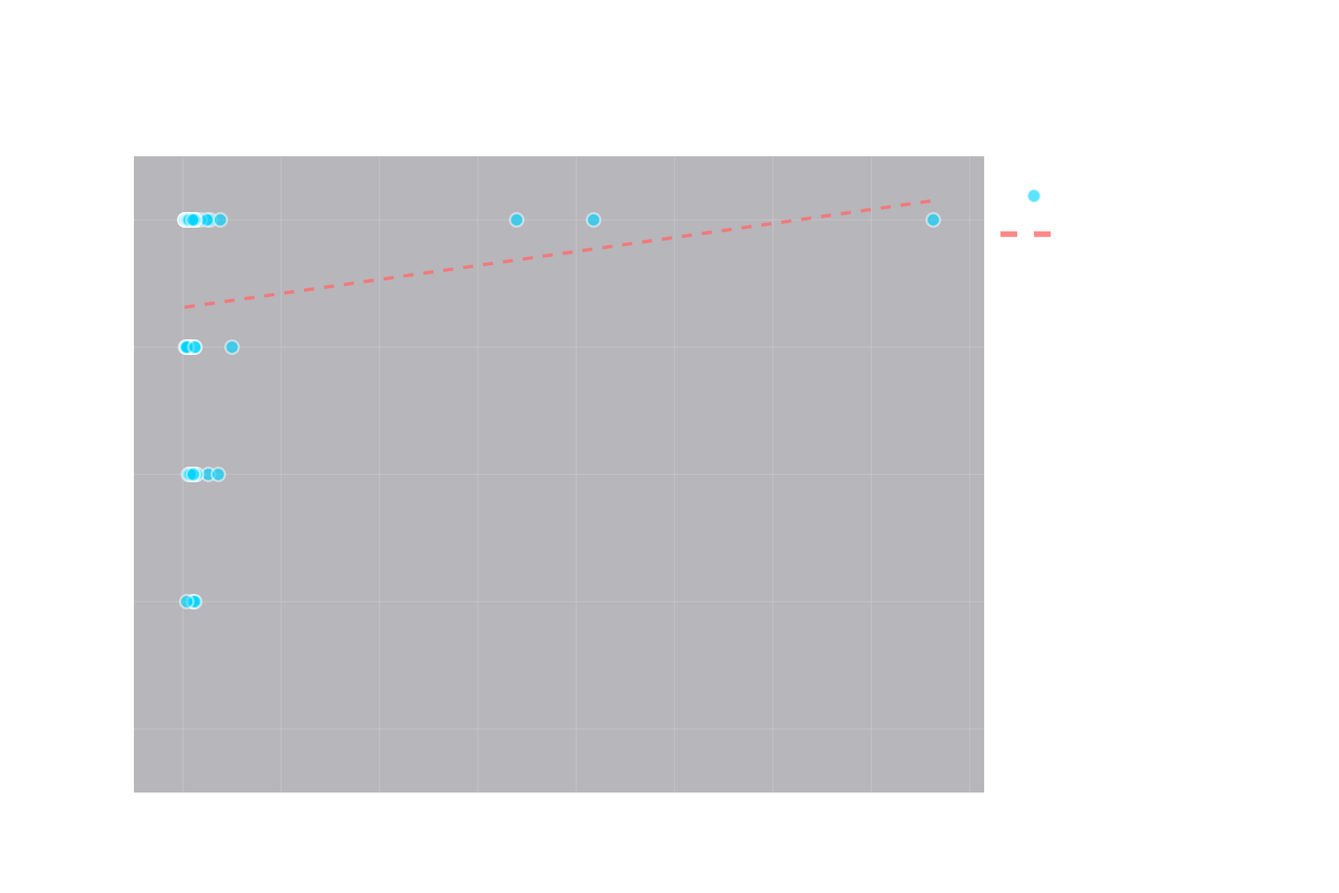
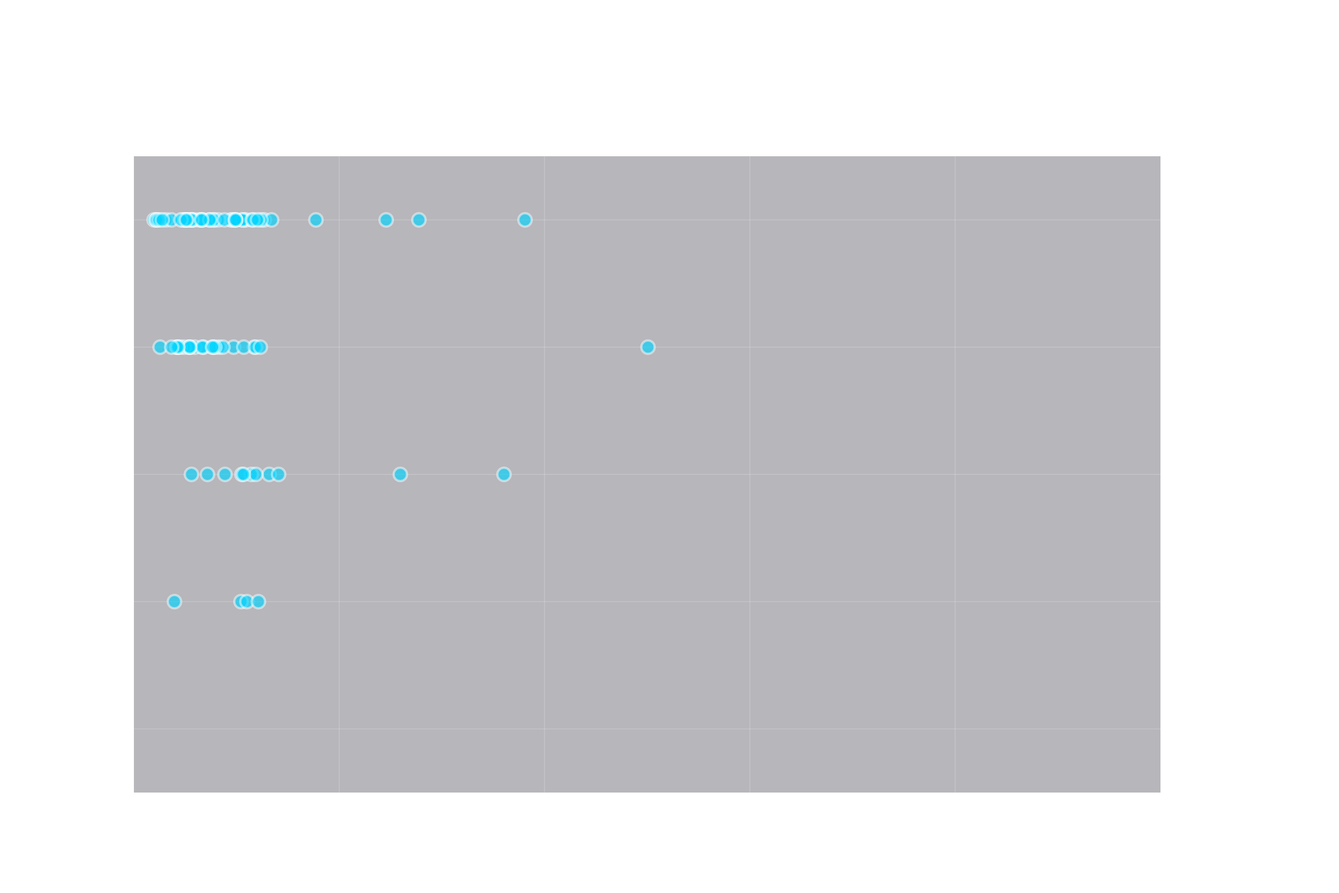
fix: clear chart title and enhance distance comparison chart functionality
- Cleared the chart title text content in index.html for improved clarity.
- Added filtering for trips under 10 km in viz_distance_comparison.py, with an annotation for no available trips.
- Updated scatter plot data to reflect filtered results and removed the trend line as per request.
- Adjusted x-axis range in the distance comparison chart layout to limit to 10 km.

diff --git a/outputs/distance_comparison.html b/outputs/distance_comparison.html
@@ -35,7 +35,7 @@
     <div id="plotly-div"></div>
     
     <script>
-        var figureJSON = {"data":[{"hovertemplate":"\u003cb\u003eStudent Response\u003c\u002fb\u003e\u003cbr\u003eActual Distance: %{x:.2f} km\u003cbr\u003ePerceived Importance: %{y:.1f}\u002f5\u003cbr\u003eID: %{text}\u003cextra\u003e\u003c\u002fextra\u003e","marker":{"color":"rgba(0, 212, 255, 0.8)","line":{"color":"rgba(255, 255, 255, 0.6)","width":2},"opacity":0.8,"size":12},"mode":"markers","name":"Individual Responses","text":["836154","841106","841110","841111","841116","841118","841121","841125","841130","841134","841146","841153","853074","853078","853099","853159","853312","853355","853372","853411","853415","853444","853566","853621","853838","854340","856300","856343","856634","859290","859317","859831","859968","860040","860047","860238","860303","860362","863556","863862","863887","864950","865454","866939","869858","869956","869961","870232","870233","870235","870237","870242","870258","871978","878413","878457","887967","888010","888014","888022","888134","888466","898103","898106","898157","898199","898297","899225","899295","899867","899962","905091","916366","916374","916375","916390","916391","916403","916414","916415","916742","916897","917594","919603","919616","919635","919680","919758"],"x":[0.19660873441922383,1.318258982143453,0.5928184659626314,2.595604811981056,0.9444493888160007,1.1432300889703149,0.5376580062481178,0.7355039435015297,0.9713790470309572,0.3142999839166886,1.0432226121425974,1.1725907192015907,2.7764165772576574,1.1873631823187347,0.5609573118072229,1.2692407698339223,1.4096988273158213,0.6713026149196973,0.9615677947362072,0.6783441770927978,0.4172598992829516,0.49125191139904617,0.5847901439897417,0.22041946022991307,1.0707188461820678,0.25575860383060867,0.8290277563918342,1.0919474273689347,1.0514044037663837,0.45176890031072353,0.5310667293215617,0.562397391845399,0.7675279644773724,1.0649892085902963,1.054978671716156,0.5472517695827953,0.5094304037025462,0.8677178382518711,0.2201847530594614,0.6655939626536871,0.6353058241173803,0.9900909380442863,0.47890468756403437,0.7884289900666915,3.8101074083182898,0.5568320326288102,0.7671737594660228,1.7731473773808906,41.76259420526531,0.36669249175373836,1.1854744939451525,0.7800267490196165,0.5426973978213154,0.5010294735352354,0.24577996774035532,0.27641748743447636,0.65924324841804,0.8232653179917975,1.3413056276534907,0.8875303927226957,0.7168157180966449,0.7768459700577828,0.565127296751956,1.067401091688775,0.5030319551127922,1.2386036475157,0.7390833030089606,3.605325513653241,1.101397946042092,1.2129921724184833,1.1524695021151214,5.007816295772267,0.8824207647645214,2.457400326841246,0.4586274310128669,76.30143862503265,0.9858525505787079,0.5122319165143194,0.6604295272924998,1.1612952715241625,33.942075629478374,0.39516380029957476,1.2039420575352362,0.992541660692622,0.4218261759869098,0.42917351471444803,0.3685729969990784,1.2316791346702303],"y":[5.0,3.0,4.0,3.0,5.0,3.0,4.0,5.0,4.0,5.0,2.0,4.0,5.0,3.0,3.0,5.0,3.0,5.0,5.0,4.0,4.0,4.0,5.0,5.0,4.0,4.0,4.0,5.0,3.0,4.0,5.0,5.0,4.0,5.0,5.0,4.0,5.0,4.0,5.0,4.0,5.0,5.0,5.0,4.0,5.0,5.0,4.0,5.0,5.0,5.0,4.0,5.0,4.0,5.0,5.0,5.0,5.0,5.0,5.0,3.0,3.0,5.0,5.0,3.0,5.0,5.0,5.0,3.0,2.0,2.0,5.0,4.0,5.0,5.0,5.0,5.0,5.0,5.0,5.0,5.0,5.0,2.0,5.0,5.0,4.0,4.0,4.0,4.0],"type":"scatter"},{"hovertemplate":"\u003cb\u003eTrend Line\u003c\u002fb\u003e\u003cbr\u003eCorrelation: %{text}\u003cextra\u003e\u003c\u002fextra\u003e","line":{"color":"rgba(255, 107, 107, 0.8)","dash":"dash","width":3},"mode":"lines","name":"Trend Line (r=0.123)","text":["0.123","0.123","0.123","0.123","0.123","0.123","0.123","0.123","0.123","0.123","0.123","0.123","0.123","0.123","0.123","0.123","0.123","0.123","0.123","0.123","0.123","0.123","0.123","0.123","0.123","0.123","0.123","0.123","0.123","0.123","0.123","0.123","0.123","0.123","0.123","0.123","0.123","0.123","0.123","0.123","0.123","0.123","0.123","0.123","0.123","0.123","0.123","0.123","0.123","0.123"],"x":[0.19660873441922383,1.7497685281052118,3.3029283217912,4.8560881154771876,6.4092479091631755,7.9624077028491635,9.515567496535152,11.068727290221139,12.621887083907128,14.175046877593116,15.728206671279104,17.281366464965092,18.83452625865108,20.38768605233707,21.940845846023056,23.494005639709044,25.047165433395033,26.600325227081022,28.15348502076701,29.706644814452996,31.259804608138985,32.81296440182497,34.366124195510956,35.91928398919695,37.472443782882934,39.02560357656892,40.57876337025491,42.1319231639409,43.68508295762688,45.238242751312875,46.79140254499886,48.34456233868485,49.89772213237084,51.45088192605682,53.004041719742816,54.5572015134288,56.11036130711479,57.66352110080078,59.216680894486764,60.769840688172756,62.32300048185874,63.87616027554473,65.42932006923073,66.98247986291672,68.5356396566027,70.08879945028869,71.64195924397468,73.19511903766066,74.74827883134665,76.30143862503265],"y":[4.313855718061364,4.330950658782424,4.348045599503483,4.365140540224543,4.382235480945603,4.399330421666662,4.416425362387722,4.433520303108781,4.450615243829842,4.467710184550901,4.4848051252719605,4.50190006599302,4.51899500671408,4.53608994743514,4.553184888156199,4.570279828877259,4.587374769598319,4.604469710319378,4.621564651040438,4.638659591761497,4.6557545324825576,4.672849473203617,4.689944413924676,4.707039354645736,4.724134295366796,4.741229236087856,4.758324176808915,4.7754191175299745,4.792514058251035,4.809608998972094,4.826703939693154,4.843798880414213,4.860893821135273,4.877988761856333,4.895083702577392,4.912178643298452,4.929273584019512,4.9463685247405715,4.963463465461631,4.98055840618269,4.99765334690375,5.01474828762481,5.03184322834587,5.048938169066929,5.066033109787989,5.083128050509049,5.100222991230108,5.117317931951168,5.134412872672228,5.1515078133932874],"type":"scatter"}],"layout":{"template":{"data":{"histogram2dcontour":[{"type":"histogram2dcontour","colorbar":{"outlinewidth":0,"ticks":""},"colorscale":[[0.0,"#0d0887"],[0.1111111111111111,"#46039f"],[0.2222222222222222,"#7201a8"],[0.3333333333333333,"#9c179e"],[0.4444444444444444,"#bd3786"],[0.5555555555555556,"#d8576b"],[0.6666666666666666,"#ed7953"],[0.7777777777777778,"#fb9f3a"],[0.8888888888888888,"#fdca26"],[1.0,"#f0f921"]]}],"choropleth":[{"type":"choropleth","colorbar":{"outlinewidth":0,"ticks":""}}],"histogram2d":[{"type":"histogram2d","colorbar":{"outlinewidth":0,"ticks":""},"colorscale":[[0.0,"#0d0887"],[0.1111111111111111,"#46039f"],[0.2222222222222222,"#7201a8"],[0.3333333333333333,"#9c179e"],[0.4444444444444444,"#bd3786"],[0.5555555555555556,"#d8576b"],[0.6666666666666666,"#ed7953"],[0.7777777777777778,"#fb9f3a"],[0.8888888888888888,"#fdca26"],[1.0,"#f0f921"]]}],"heatmap":[{"type":"heatmap","colorbar":{"outlinewidth":0,"ticks":""},"colorscale":[[0.0,"#0d0887"],[0.1111111111111111,"#46039f"],[0.2222222222222222,"#7201a8"],[0.3333333333333333,"#9c179e"],[0.4444444444444444,"#bd3786"],[0.5555555555555556,"#d8576b"],[0.6666666666666666,"#ed7953"],[0.7777777777777778,"#fb9f3a"],[0.8888888888888888,"#fdca26"],[1.0,"#f0f921"]]}],"heatmapgl":[{"type":"heatmapgl","colorbar":{"outlinewidth":0,"ticks":""},"colorscale":[[0.0,"#0d0887"],[0.1111111111111111,"#46039f"],[0.2222222222222222,"#7201a8"],[0.3333333333333333,"#9c179e"],[0.4444444444444444,"#bd3786"],[0.5555555555555556,"#d8576b"],[0.6666666666666666,"#ed7953"],[0.7777777777777778,"#fb9f3a"],[0.8888888888888888,"#fdca26"],[1.0,"#f0f921"]]}],"contourcarpet":[{"type":"contourcarpet","colorbar":{"outlinewidth":0,"ticks":""}}],"contour":[{"type":"contour","colorbar":{"outlinewidth":0,"ticks":""},"colorscale":[[0.0,"#0d0887"],[0.1111111111111111,"#46039f"],[0.2222222222222222,"#7201a8"],[0.3333333333333333,"#9c179e"],[0.4444444444444444,"#bd3786"],[0.5555555555555556,"#d8576b"],[0.6666666666666666,"#ed7953"],[0.7777777777777778,"#fb9f3a"],[0.8888888888888888,"#fdca26"],[1.0,"#f0f921"]]}],"surface":[{"type":"surface","colorbar":{"outlinewidth":0,"ticks":""},"colorscale":[[0.0,"#0d0887"],[0.1111111111111111,"#46039f"],[0.2222222222222222,"#7201a8"],[0.3333333333333333,"#9c179e"],[0.4444444444444444,"#bd3786"],[0.5555555555555556,"#d8576b"],[0.6666666666666666,"#ed7953"],[0.7777777777777778,"#fb9f3a"],[0.8888888888888888,"#fdca26"],[1.0,"#f0f921"]]}],"mesh3d":[{"type":"mesh3d","colorbar":{"outlinewidth":0,"ticks":""}}],"scatter":[{"fillpattern":{"fillmode":"overlay","size":10,"solidity":0.2},"type":"scatter"}],"parcoords":[{"type":"parcoords","line":{"colorbar":{"outlinewidth":0,"ticks":""}}}],"scatterpolargl":[{"type":"scatterpolargl","marker":{"colorbar":{"outlinewidth":0,"ticks":""}}}],"bar":[{"error_x":{"color":"#2a3f5f"},"error_y":{"color":"#2a3f5f"},"marker":{"line":{"color":"#E5ECF6","width":0.5},"pattern":{"fillmode":"overlay","size":10,"solidity":0.2}},"type":"bar"}],"scattergeo":[{"type":"scattergeo","marker":{"colorbar":{"outlinewidth":0,"ticks":""}}}],"scatterpolar":[{"type":"scatterpolar","marker":{"colorbar":{"outlinewidth":0,"ticks":""}}}],"histogram":[{"marker":{"pattern":{"fillmode":"overlay","size":10,"solidity":0.2}},"type":"histogram"}],"scattergl":[{"type":"scattergl","marker":{"colorbar":{"outlinewidth":0,"ticks":""}}}],"scatter3d":[{"type":"scatter3d","line":{"colorbar":{"outlinewidth":0,"ticks":""}},"marker":{"colorbar":{"outlinewidth":0,"ticks":""}}}],"scattermapbox":[{"type":"scattermapbox","marker":{"colorbar":{"outlinewidth":0,"ticks":""}}}],"scatterternary":[{"type":"scatterternary","marker":{"colorbar":{"outlinewidth":0,"ticks":""}}}],"scattercarpet":[{"type":"scattercarpet","marker":{"colorbar":{"outlinewidth":0,"ticks":""}}}],"carpet":[{"aaxis":{"endlinecolor":"#2a3f5f","gridcolor":"white","linecolor":"white","minorgridcolor":"white","startlinecolor":"#2a3f5f"},"baxis":{"endlinecolor":"#2a3f5f","gridcolor":"white","linecolor":"white","minorgridcolor":"white","startlinecolor":"#2a3f5f"},"type":"carpet"}],"table":[{"cells":{"fill":{"color":"#EBF0F8"},"line":{"color":"white"}},"header":{"fill":{"color":"#C8D4E3"},"line":{"color":"white"}},"type":"table"}],"barpolar":[{"marker":{"line":{"color":"#E5ECF6","width":0.5},"pattern":{"fillmode":"overlay","size":10,"solidity":0.2}},"type":"barpolar"}],"pie":[{"automargin":true,"type":"pie"}]},"layout":{"autotypenumbers":"strict","colorway":["#636efa","#EF553B","#00cc96","#ab63fa","#FFA15A","#19d3f3","#FF6692","#B6E880","#FF97FF","#FECB52"],"font":{"color":"#2a3f5f"},"hovermode":"closest","hoverlabel":{"align":"left"},"paper_bgcolor":"white","plot_bgcolor":"#E5ECF6","polar":{"bgcolor":"#E5ECF6","angularaxis":{"gridcolor":"white","linecolor":"white","ticks":""},"radialaxis":{"gridcolor":"white","linecolor":"white","ticks":""}},"ternary":{"bgcolor":"#E5ECF6","aaxis":{"gridcolor":"white","linecolor":"white","ticks":""},"baxis":{"gridcolor":"white","linecolor":"white","ticks":""},"caxis":{"gridcolor":"white","linecolor":"white","ticks":""}},"coloraxis":{"colorbar":{"outlinewidth":0,"ticks":""}},"colorscale":{"sequential":[[0.0,"#0d0887"],[0.1111111111111111,"#46039f"],[0.2222222222222222,"#7201a8"],[0.3333333333333333,"#9c179e"],[0.4444444444444444,"#bd3786"],[0.5555555555555556,"#d8576b"],[0.6666666666666666,"#ed7953"],[0.7777777777777778,"#fb9f3a"],[0.8888888888888888,"#fdca26"],[1.0,"#f0f921"]],"sequentialminus":[[0.0,"#0d0887"],[0.1111111111111111,"#46039f"],[0.2222222222222222,"#7201a8"],[0.3333333333333333,"#9c179e"],[0.4444444444444444,"#bd3786"],[0.5555555555555556,"#d8576b"],[0.6666666666666666,"#ed7953"],[0.7777777777777778,"#fb9f3a"],[0.8888888888888888,"#fdca26"],[1.0,"#f0f921"]],"diverging":[[0,"#8e0152"],[0.1,"#c51b7d"],[0.2,"#de77ae"],[0.3,"#f1b6da"],[0.4,"#fde0ef"],[0.5,"#f7f7f7"],[0.6,"#e6f5d0"],[0.7,"#b8e186"],[0.8,"#7fbc41"],[0.9,"#4d9221"],[1,"#276419"]]},"xaxis":{"gridcolor":"white","linecolor":"white","ticks":"","title":{"standoff":15},"zerolinecolor":"white","automargin":true,"zerolinewidth":2},"yaxis":{"gridcolor":"white","linecolor":"white","ticks":"","title":{"standoff":15},"zerolinecolor":"white","automargin":true,"zerolinewidth":2},"scene":{"xaxis":{"backgroundcolor":"#E5ECF6","gridcolor":"white","linecolor":"white","showbackground":true,"ticks":"","zerolinecolor":"white","gridwidth":2},"yaxis":{"backgroundcolor":"#E5ECF6","gridcolor":"white","linecolor":"white","showbackground":true,"ticks":"","zerolinecolor":"white","gridwidth":2},"zaxis":{"backgroundcolor":"#E5ECF6","gridcolor":"white","linecolor":"white","showbackground":true,"ticks":"","zerolinecolor":"white","gridwidth":2}},"shapedefaults":{"line":{"color":"#2a3f5f"}},"annotationdefaults":{"arrowcolor":"#2a3f5f","arrowhead":0,"arrowwidth":1},"geo":{"bgcolor":"white","landcolor":"#E5ECF6","subunitcolor":"white","showland":true,"showlakes":true,"lakecolor":"white"},"title":{"x":0.05},"mapbox":{"style":"light"}}},"title":{"font":{"size":32,"color":"white","family":"Inter, system-ui, sans-serif"},"pad":{"b":30},"text":"Distance: Perception vs Reality","x":0.5,"xanchor":"center"},"xaxis":{"title":{"text":"Actual Trip Distance (km)","font":{"size":18,"color":"white","family":"Inter, system-ui, sans-serif"}},"tickfont":{"size":14,"color":"rgba(255,255,255,0.95)","family":"Inter"},"gridcolor":"rgba(255,255,255,0.15)","showgrid":true,"zeroline":false,"showline":true,"linecolor":"rgba(255,255,255,0.4)","linewidth":2},"yaxis":{"title":{"text":"Perceived Distance Importance (1-5 scale)","font":{"size":18,"color":"white","family":"Inter, system-ui, sans-serif"}},"tickfont":{"size":14,"color":"rgba(255,255,255,0.95)","family":"Inter"},"gridcolor":"rgba(255,255,255,0.15)","showgrid":true,"zeroline":false,"showline":true,"linecolor":"rgba(255,255,255,0.4)","linewidth":2,"range":[0.5,5.5]},"font":{"color":"white","size":14,"family":"Inter, system-ui, sans-serif"},"margin":{"l":120,"r":160,"t":140,"b":90},"legend":{"font":{"size":24,"color":"white","family":"Inter, system-ui, sans-serif"},"orientation":"v","yanchor":"top","y":0.98,"xanchor":"left","x":1.01,"bgcolor":"rgba(255,255,255,0.1)","bordercolor":"rgba(255,255,255,0.3)","borderwidth":2,"itemsizing":"constant","itemwidth":60,"tracegroupgap":15},"hoverlabel":{"font":{"size":14,"family":"Inter, system-ui, sans-serif"},"bgcolor":"rgba(15,15,15,0.98)","bordercolor":"rgba(255,255,255,0.4)"},"paper_bgcolor":"rgba(0,0,0,0)","plot_bgcolor":"rgba(15,15,30,0.3)","autosize":true,"hovermode":"closest"}};
+        var figureJSON = {"data":[{"hovertemplate":"\u003cb\u003eStudent Response\u003c\u002fb\u003e\u003cbr\u003eActual Distance: %{x:.2f} km\u003cbr\u003ePerceived Importance: %{y:.1f}\u002f5\u003cbr\u003eID: %{text}\u003cextra\u003e\u003c\u002fextra\u003e","marker":{"color":"rgba(0, 212, 255, 0.8)","line":{"color":"rgba(255, 255, 255, 0.6)","width":2},"opacity":0.8,"size":12},"mode":"markers","name":"Individual Responses","text":["836154","841106","841110","841111","841116","841118","841121","841125","841130","841134","841146","841153","853074","853078","853099","853159","853312","853355","853372","853411","853415","853444","853566","853621","853838","854340","856300","856343","856634","859290","859317","859831","859968","860040","860047","860238","860303","860362","863556","863862","863887","864950","865454","866939","869858","869956","869961","870232","870235","870237","870242","870258","871978","878413","878457","887967","888010","888014","888022","888134","888466","898103","898106","898157","898199","898297","899225","899295","899867","899962","905091","916366","916374","916375","916391","916403","916414","916415","916897","917594","919603","919616","919635","919680","919758"],"x":[0.19660873441922383,1.318258982143453,0.5928184659626314,2.595604811981056,0.9444493888160007,1.1432300889703149,0.5376580062481178,0.7355039435015297,0.9713790470309572,0.3142999839166886,1.0432226121425974,1.1725907192015907,2.7764165772576574,1.1873631823187347,0.5609573118072229,1.2692407698339223,1.4096988273158213,0.6713026149196973,0.9615677947362072,0.6783441770927978,0.4172598992829516,0.49125191139904617,0.5847901439897417,0.22041946022991307,1.0707188461820678,0.25575860383060867,0.8290277563918342,1.0919474273689347,1.0514044037663837,0.45176890031072353,0.5310667293215617,0.562397391845399,0.7675279644773724,1.0649892085902963,1.054978671716156,0.5472517695827953,0.5094304037025462,0.8677178382518711,0.2201847530594614,0.6655939626536871,0.6353058241173803,0.9900909380442863,0.47890468756403437,0.7884289900666915,3.8101074083182898,0.5568320326288102,0.7671737594660228,1.7731473773808906,0.36669249175373836,1.1854744939451525,0.7800267490196165,0.5426973978213154,0.5010294735352354,0.24577996774035532,0.27641748743447636,0.65924324841804,0.8232653179917975,1.3413056276534907,0.8875303927226957,0.7168157180966449,0.7768459700577828,0.565127296751956,1.067401091688775,0.5030319551127922,1.2386036475157,0.7390833030089606,3.605325513653241,1.101397946042092,1.2129921724184833,1.1524695021151214,5.007816295772267,0.8824207647645214,2.457400326841246,0.4586274310128669,0.9858525505787079,0.5122319165143194,0.6604295272924998,1.1612952715241625,0.39516380029957476,1.2039420575352362,0.992541660692622,0.4218261759869098,0.42917351471444803,0.3685729969990784,1.2316791346702303],"y":[5.0,3.0,4.0,3.0,5.0,3.0,4.0,5.0,4.0,5.0,2.0,4.0,5.0,3.0,3.0,5.0,3.0,5.0,5.0,4.0,4.0,4.0,5.0,5.0,4.0,4.0,4.0,5.0,3.0,4.0,5.0,5.0,4.0,5.0,5.0,4.0,5.0,4.0,5.0,4.0,5.0,5.0,5.0,4.0,5.0,5.0,4.0,5.0,5.0,4.0,5.0,4.0,5.0,5.0,5.0,5.0,5.0,5.0,3.0,3.0,5.0,5.0,3.0,5.0,5.0,5.0,3.0,2.0,2.0,5.0,4.0,5.0,5.0,5.0,5.0,5.0,5.0,5.0,2.0,5.0,5.0,4.0,4.0,4.0,4.0],"type":"scatter"}],"layout":{"template":{"data":{"histogram2dcontour":[{"type":"histogram2dcontour","colorbar":{"outlinewidth":0,"ticks":""},"colorscale":[[0.0,"#0d0887"],[0.1111111111111111,"#46039f"],[0.2222222222222222,"#7201a8"],[0.3333333333333333,"#9c179e"],[0.4444444444444444,"#bd3786"],[0.5555555555555556,"#d8576b"],[0.6666666666666666,"#ed7953"],[0.7777777777777778,"#fb9f3a"],[0.8888888888888888,"#fdca26"],[1.0,"#f0f921"]]}],"choropleth":[{"type":"choropleth","colorbar":{"outlinewidth":0,"ticks":""}}],"histogram2d":[{"type":"histogram2d","colorbar":{"outlinewidth":0,"ticks":""},"colorscale":[[0.0,"#0d0887"],[0.1111111111111111,"#46039f"],[0.2222222222222222,"#7201a8"],[0.3333333333333333,"#9c179e"],[0.4444444444444444,"#bd3786"],[0.5555555555555556,"#d8576b"],[0.6666666666666666,"#ed7953"],[0.7777777777777778,"#fb9f3a"],[0.8888888888888888,"#fdca26"],[1.0,"#f0f921"]]}],"heatmap":[{"type":"heatmap","colorbar":{"outlinewidth":0,"ticks":""},"colorscale":[[0.0,"#0d0887"],[0.1111111111111111,"#46039f"],[0.2222222222222222,"#7201a8"],[0.3333333333333333,"#9c179e"],[0.4444444444444444,"#bd3786"],[0.5555555555555556,"#d8576b"],[0.6666666666666666,"#ed7953"],[0.7777777777777778,"#fb9f3a"],[0.8888888888888888,"#fdca26"],[1.0,"#f0f921"]]}],"heatmapgl":[{"type":"heatmapgl","colorbar":{"outlinewidth":0,"ticks":""},"colorscale":[[0.0,"#0d0887"],[0.1111111111111111,"#46039f"],[0.2222222222222222,"#7201a8"],[0.3333333333333333,"#9c179e"],[0.4444444444444444,"#bd3786"],[0.5555555555555556,"#d8576b"],[0.6666666666666666,"#ed7953"],[0.7777777777777778,"#fb9f3a"],[0.8888888888888888,"#fdca26"],[1.0,"#f0f921"]]}],"contourcarpet":[{"type":"contourcarpet","colorbar":{"outlinewidth":0,"ticks":""}}],"contour":[{"type":"contour","colorbar":{"outlinewidth":0,"ticks":""},"colorscale":[[0.0,"#0d0887"],[0.1111111111111111,"#46039f"],[0.2222222222222222,"#7201a8"],[0.3333333333333333,"#9c179e"],[0.4444444444444444,"#bd3786"],[0.5555555555555556,"#d8576b"],[0.6666666666666666,"#ed7953"],[0.7777777777777778,"#fb9f3a"],[0.8888888888888888,"#fdca26"],[1.0,"#f0f921"]]}],"surface":[{"type":"surface","colorbar":{"outlinewidth":0,"ticks":""},"colorscale":[[0.0,"#0d0887"],[0.1111111111111111,"#46039f"],[0.2222222222222222,"#7201a8"],[0.3333333333333333,"#9c179e"],[0.4444444444444444,"#bd3786"],[0.5555555555555556,"#d8576b"],[0.6666666666666666,"#ed7953"],[0.7777777777777778,"#fb9f3a"],[0.8888888888888888,"#fdca26"],[1.0,"#f0f921"]]}],"mesh3d":[{"type":"mesh3d","colorbar":{"outlinewidth":0,"ticks":""}}],"scatter":[{"fillpattern":{"fillmode":"overlay","size":10,"solidity":0.2},"type":"scatter"}],"parcoords":[{"type":"parcoords","line":{"colorbar":{"outlinewidth":0,"ticks":""}}}],"scatterpolargl":[{"type":"scatterpolargl","marker":{"colorbar":{"outlinewidth":0,"ticks":""}}}],"bar":[{"error_x":{"color":"#2a3f5f"},"error_y":{"color":"#2a3f5f"},"marker":{"line":{"color":"#E5ECF6","width":0.5},"pattern":{"fillmode":"overlay","size":10,"solidity":0.2}},"type":"bar"}],"scattergeo":[{"type":"scattergeo","marker":{"colorbar":{"outlinewidth":0,"ticks":""}}}],"scatterpolar":[{"type":"scatterpolar","marker":{"colorbar":{"outlinewidth":0,"ticks":""}}}],"histogram":[{"marker":{"pattern":{"fillmode":"overlay","size":10,"solidity":0.2}},"type":"histogram"}],"scattergl":[{"type":"scattergl","marker":{"colorbar":{"outlinewidth":0,"ticks":""}}}],"scatter3d":[{"type":"scatter3d","line":{"colorbar":{"outlinewidth":0,"ticks":""}},"marker":{"colorbar":{"outlinewidth":0,"ticks":""}}}],"scattermapbox":[{"type":"scattermapbox","marker":{"colorbar":{"outlinewidth":0,"ticks":""}}}],"scatterternary":[{"type":"scatterternary","marker":{"colorbar":{"outlinewidth":0,"ticks":""}}}],"scattercarpet":[{"type":"scattercarpet","marker":{"colorbar":{"outlinewidth":0,"ticks":""}}}],"carpet":[{"aaxis":{"endlinecolor":"#2a3f5f","gridcolor":"white","linecolor":"white","minorgridcolor":"white","startlinecolor":"#2a3f5f"},"baxis":{"endlinecolor":"#2a3f5f","gridcolor":"white","linecolor":"white","minorgridcolor":"white","startlinecolor":"#2a3f5f"},"type":"carpet"}],"table":[{"cells":{"fill":{"color":"#EBF0F8"},"line":{"color":"white"}},"header":{"fill":{"color":"#C8D4E3"},"line":{"color":"white"}},"type":"table"}],"barpolar":[{"marker":{"line":{"color":"#E5ECF6","width":0.5},"pattern":{"fillmode":"overlay","size":10,"solidity":0.2}},"type":"barpolar"}],"pie":[{"automargin":true,"type":"pie"}]},"layout":{"autotypenumbers":"strict","colorway":["#636efa","#EF553B","#00cc96","#ab63fa","#FFA15A","#19d3f3","#FF6692","#B6E880","#FF97FF","#FECB52"],"font":{"color":"#2a3f5f"},"hovermode":"closest","hoverlabel":{"align":"left"},"paper_bgcolor":"white","plot_bgcolor":"#E5ECF6","polar":{"bgcolor":"#E5ECF6","angularaxis":{"gridcolor":"white","linecolor":"white","ticks":""},"radialaxis":{"gridcolor":"white","linecolor":"white","ticks":""}},"ternary":{"bgcolor":"#E5ECF6","aaxis":{"gridcolor":"white","linecolor":"white","ticks":""},"baxis":{"gridcolor":"white","linecolor":"white","ticks":""},"caxis":{"gridcolor":"white","linecolor":"white","ticks":""}},"coloraxis":{"colorbar":{"outlinewidth":0,"ticks":""}},"colorscale":{"sequential":[[0.0,"#0d0887"],[0.1111111111111111,"#46039f"],[0.2222222222222222,"#7201a8"],[0.3333333333333333,"#9c179e"],[0.4444444444444444,"#bd3786"],[0.5555555555555556,"#d8576b"],[0.6666666666666666,"#ed7953"],[0.7777777777777778,"#fb9f3a"],[0.8888888888888888,"#fdca26"],[1.0,"#f0f921"]],"sequentialminus":[[0.0,"#0d0887"],[0.1111111111111111,"#46039f"],[0.2222222222222222,"#7201a8"],[0.3333333333333333,"#9c179e"],[0.4444444444444444,"#bd3786"],[0.5555555555555556,"#d8576b"],[0.6666666666666666,"#ed7953"],[0.7777777777777778,"#fb9f3a"],[0.8888888888888888,"#fdca26"],[1.0,"#f0f921"]],"diverging":[[0,"#8e0152"],[0.1,"#c51b7d"],[0.2,"#de77ae"],[0.3,"#f1b6da"],[0.4,"#fde0ef"],[0.5,"#f7f7f7"],[0.6,"#e6f5d0"],[0.7,"#b8e186"],[0.8,"#7fbc41"],[0.9,"#4d9221"],[1,"#276419"]]},"xaxis":{"gridcolor":"white","linecolor":"white","ticks":"","title":{"standoff":15},"zerolinecolor":"white","automargin":true,"zerolinewidth":2},"yaxis":{"gridcolor":"white","linecolor":"white","ticks":"","title":{"standoff":15},"zerolinecolor":"white","automargin":true,"zerolinewidth":2},"scene":{"xaxis":{"backgroundcolor":"#E5ECF6","gridcolor":"white","linecolor":"white","showbackground":true,"ticks":"","zerolinecolor":"white","gridwidth":2},"yaxis":{"backgroundcolor":"#E5ECF6","gridcolor":"white","linecolor":"white","showbackground":true,"ticks":"","zerolinecolor":"white","gridwidth":2},"zaxis":{"backgroundcolor":"#E5ECF6","gridcolor":"white","linecolor":"white","showbackground":true,"ticks":"","zerolinecolor":"white","gridwidth":2}},"shapedefaults":{"line":{"color":"#2a3f5f"}},"annotationdefaults":{"arrowcolor":"#2a3f5f","arrowhead":0,"arrowwidth":1},"geo":{"bgcolor":"white","landcolor":"#E5ECF6","subunitcolor":"white","showland":true,"showlakes":true,"lakecolor":"white"},"title":{"x":0.05},"mapbox":{"style":"light"}}},"title":{"font":{"size":32,"color":"white","family":"Inter, system-ui, sans-serif"},"pad":{"b":30},"text":"Distance: Perception vs Reality","x":0.5,"xanchor":"center"},"xaxis":{"title":{"text":"Actual Trip Distance (km)","font":{"size":18,"color":"white","family":"Inter, system-ui, sans-serif"}},"tickfont":{"size":14,"color":"rgba(255,255,255,0.95)","family":"Inter"},"gridcolor":"rgba(255,255,255,0.15)","showgrid":true,"zeroline":false,"showline":true,"linecolor":"rgba(255,255,255,0.4)","linewidth":2,"range":[0,10]},"yaxis":{"title":{"text":"Perceived Distance Importance (1-5 scale)","font":{"size":18,"color":"white","family":"Inter, system-ui, sans-serif"}},"tickfont":{"size":14,"color":"rgba(255,255,255,0.95)","family":"Inter"},"gridcolor":"rgba(255,255,255,0.15)","showgrid":true,"zeroline":false,"showline":true,"linecolor":"rgba(255,255,255,0.4)","linewidth":2,"range":[0.5,5.5]},"font":{"color":"white","size":14,"family":"Inter, system-ui, sans-serif"},"margin":{"l":120,"r":160,"t":140,"b":90},"hoverlabel":{"font":{"size":14,"family":"Inter, system-ui, sans-serif"},"bgcolor":"rgba(15,15,15,0.98)","bordercolor":"rgba(255,255,255,0.4)"},"paper_bgcolor":"rgba(0,0,0,0)","plot_bgcolor":"rgba(15,15,30,0.3)","autosize":true,"showlegend":false,"hovermode":"closest"}};
         
         var config = {
             displayModeBar: true,

diff --git a/index.html b/index.html
@@ -2054,7 +2054,7 @@
           frame.style.display = "block";
           window.__currentChartUrl = null;
         }
-        chartTitle.textContent = title;
+        chartTitle.textContent = "";
         modal.classList.add("show");
       }
 

diff --git a/viz_distance_comparison.py b/viz_distance_comparison.py
@@ -103,10 +103,28 @@ def create_distance_comparison_chart(perceived_data: Dict, actual_data: Dict, li
     perceived_importance = [item['perceived_importance'] for item in linked_data]
     submission_ids = [item['submission_id'] for item in linked_data]
     
+    # Filter to trips under 10 km
+    filtered_points = [
+        (x, y, sid)
+        for x, y, sid in zip(actual_distances, perceived_importance, submission_ids)
+        if x is not None and y is not None and x < 10
+    ]
+    if not filtered_points:
+        fig.add_annotation(
+            text="No trips under 10 km",
+            xref="paper", yref="paper",
+            x=0.5, y=0.5,
+            showarrow=False,
+            font=dict(size=20, color='white')
+        )
+        return fig
+
+    xs, ys, texts = zip(*filtered_points)
+
     # Create scatter plot
     fig.add_trace(go.Scatter(
-        x=actual_distances,
-        y=perceived_importance,
+        x=xs,
+        y=ys,
         mode='markers',
         name='Individual Responses',
         marker=dict(
@@ -116,30 +134,10 @@ def create_distance_comparison_chart(perceived_data: Dict, actual_data: Dict, li
             opacity=0.8
         ),
         hovertemplate='<b>Student Response</b><br>Actual Distance: %{x:.2f} km<br>Perceived Importance: %{y:.1f}/5<br>ID: %{text}<extra></extra>',
-        text=submission_ids
+        text=texts
     ))
     
-    # Add trend line
-    if len(actual_distances) > 1:
-        # Calculate correlation and trend line
-        correlation = np.corrcoef(actual_distances, perceived_importance)[0, 1]
-        
-        # Simple linear regression
-        z = np.polyfit(actual_distances, perceived_importance, 1)
-        p = np.poly1d(z)
-        
-        x_trend = np.linspace(min(actual_distances), max(actual_distances), 50)
-        y_trend = p(x_trend)
-        
-        fig.add_trace(go.Scatter(
-            x=x_trend,
-            y=y_trend,
-            mode='lines',
-            name=f'Trend Line (r={correlation:.3f})',
-            line=dict(color='rgba(255, 107, 107, 0.8)', width=3, dash='dash'),
-            hovertemplate='<b>Trend Line</b><br>Correlation: %{text}<extra></extra>',
-            text=[f'{correlation:.3f}'] * len(x_trend)
-        ))
+    # Trend line removed per request
     
     fig.update_layout(
         title={
@@ -158,7 +156,8 @@ def create_distance_comparison_chart(perceived_data: Dict, actual_data: Dict, li
             zeroline=False,
             showline=True,
             linecolor='rgba(255,255,255,0.4)',
-            linewidth=2
+            linewidth=2,
+            range=[0, 10]
         ),
         yaxis=dict(
             title='Perceived Distance Importance (1-5 scale)',
@@ -177,20 +176,7 @@ def create_distance_comparison_chart(perceived_data: Dict, actual_data: Dict, li
         font={'color': 'white', 'size': 14, 'family': 'Inter, system-ui, sans-serif'},
         margin=dict(l=120, r=160, t=140, b=90),
         autosize=True,
-        legend=dict(
-            orientation="v",
-            yanchor="top",
-            y=0.98,
-            xanchor="left",
-            x=1.01,
-            font=dict(size=24, color='white', family='Inter, system-ui, sans-serif'),
-            bgcolor='rgba(255,255,255,0.1)',
-            bordercolor='rgba(255,255,255,0.3)',
-            borderwidth=2,
-            itemsizing='constant',
-            itemwidth=60,
-            tracegroupgap=15
-        ),
+        showlegend=False,
         hovermode='closest',
         hoverlabel=dict(
             bgcolor='rgba(15,15,15,0.98)',
